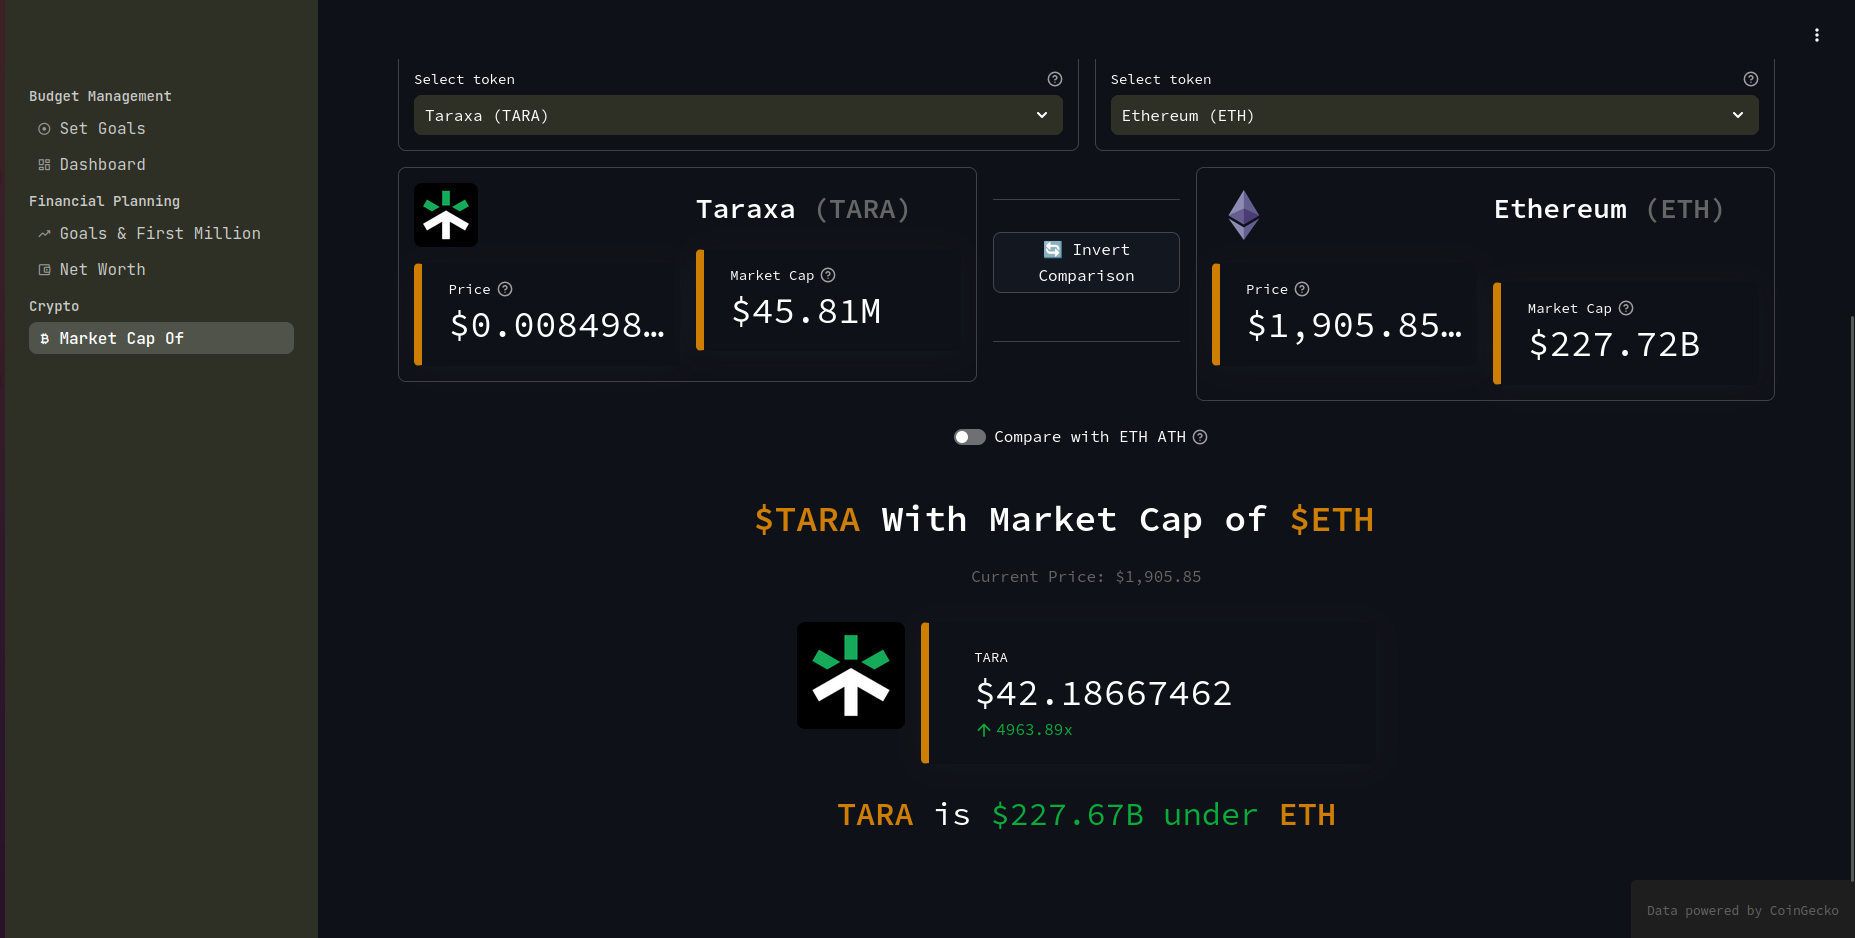
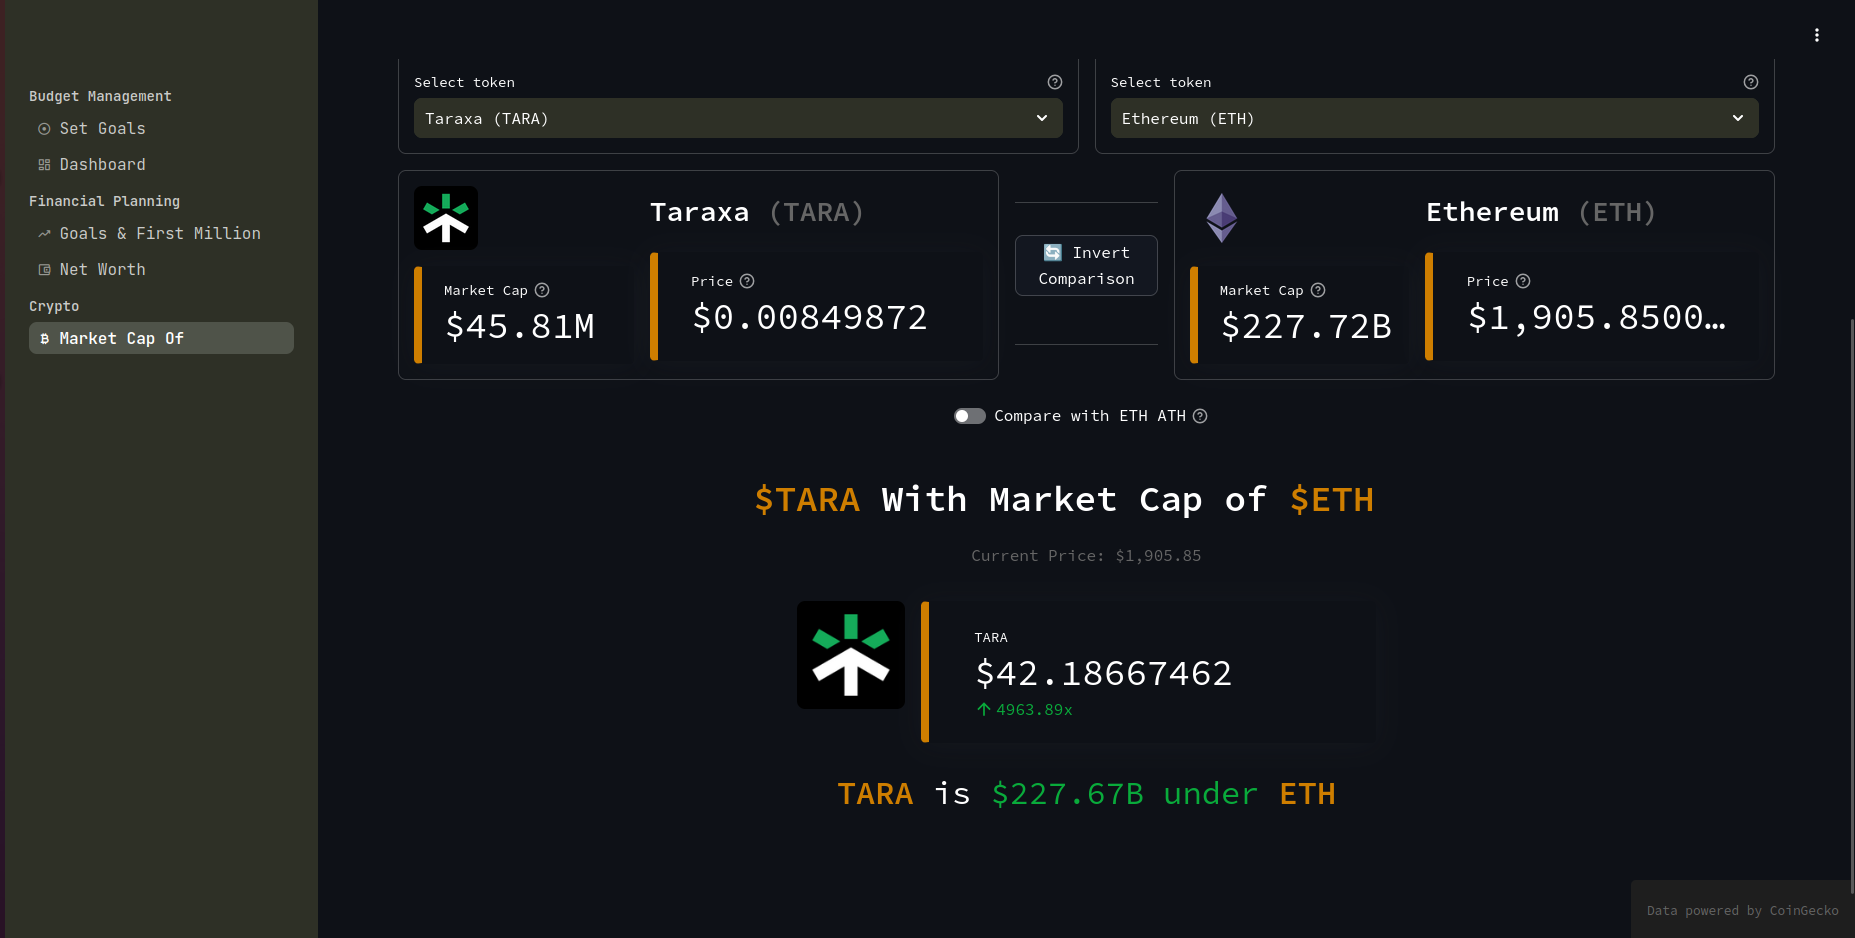
adjust UI layout

diff --git a/src/crypto/marketcapof.py b/src/crypto/marketcapof.py
@@ -137,16 +137,16 @@ def display_token_info(token: dict, token_data: dict = None):
         if token_data:
             price = token_data["market_data"]["current_price"]["usd"]
             mcap = token_data["market_data"]["market_cap"]["usd"]
-            col1, col2 = st.columns([1, 1])
+            col1, col2 = st.columns([2, 3])
 
             with col1:
                 if token.get("large"):
                     st.image(token["large"], width=64, use_container_width="never")
-                # Price metric with custom formatting
+                # Market cap metric with custom formatting
                 st.metric(
-                    label="Price",
-                    value=f"${price:,.8f}",
-                    help="Current token price in USD",
+                    label="Market Cap",
+                    value=format_large_number(mcap),
+                    help="Total market capitalization",
                 )
 
             with col2:
@@ -159,11 +159,11 @@ def display_token_info(token: dict, token_data: dict = None):
                     """,
                     unsafe_allow_html=True,
                 )
-                # Market cap metric with custom formatting
+                # Price metric with custom formatting
                 st.metric(
-                    label="Market Cap",
-                    value=format_large_number(mcap),
-                    help="Total market capitalization",
+                    label="Price",
+                    value=f"${price:,.8f}",
+                    help="Current token price in USD",
                 )
 
         elif token.get("market_cap_rank"):
@@ -297,7 +297,7 @@ def render_marketcap_dashboard():
         token2, token2_data = create_token_search("second token", "token2")
 
     if (token1 and isinstance(token1, dict)) and (token2 and isinstance(token2, dict)):
-        col1, col2, col3 = st.columns([3, 1, 3])
+        col1, col2, col3 = st.columns([4, 1, 4])
 
         with col1:
             display_token_info(token1, token1_data)
